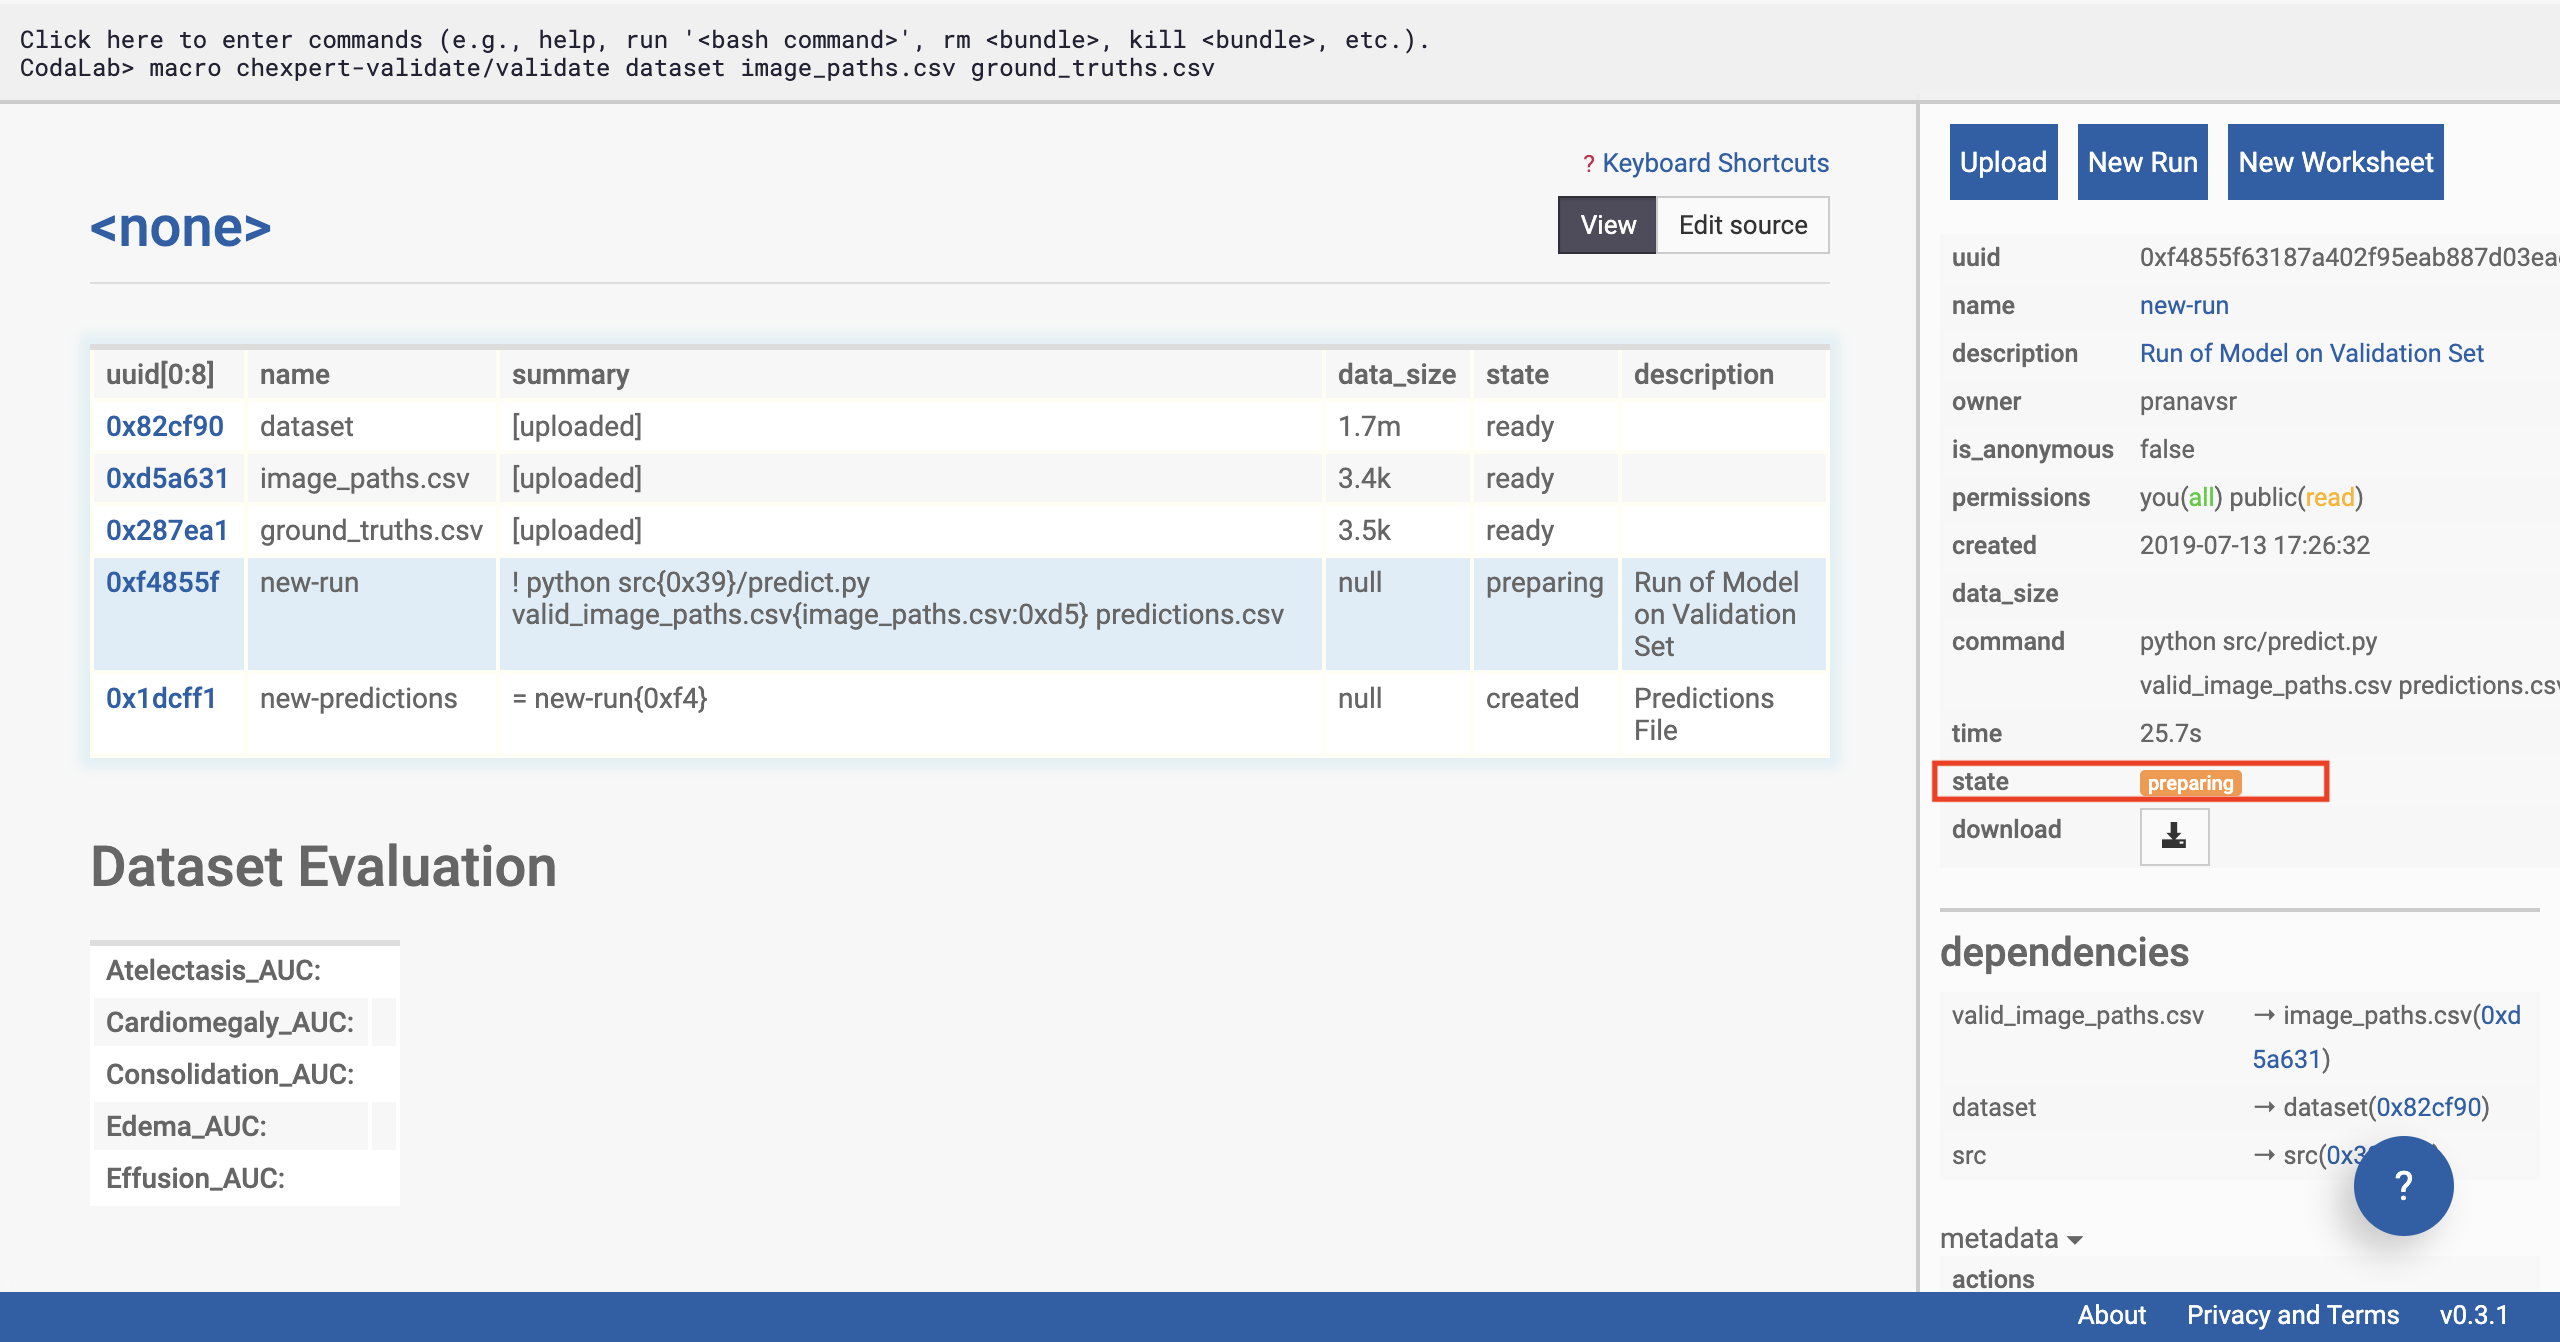
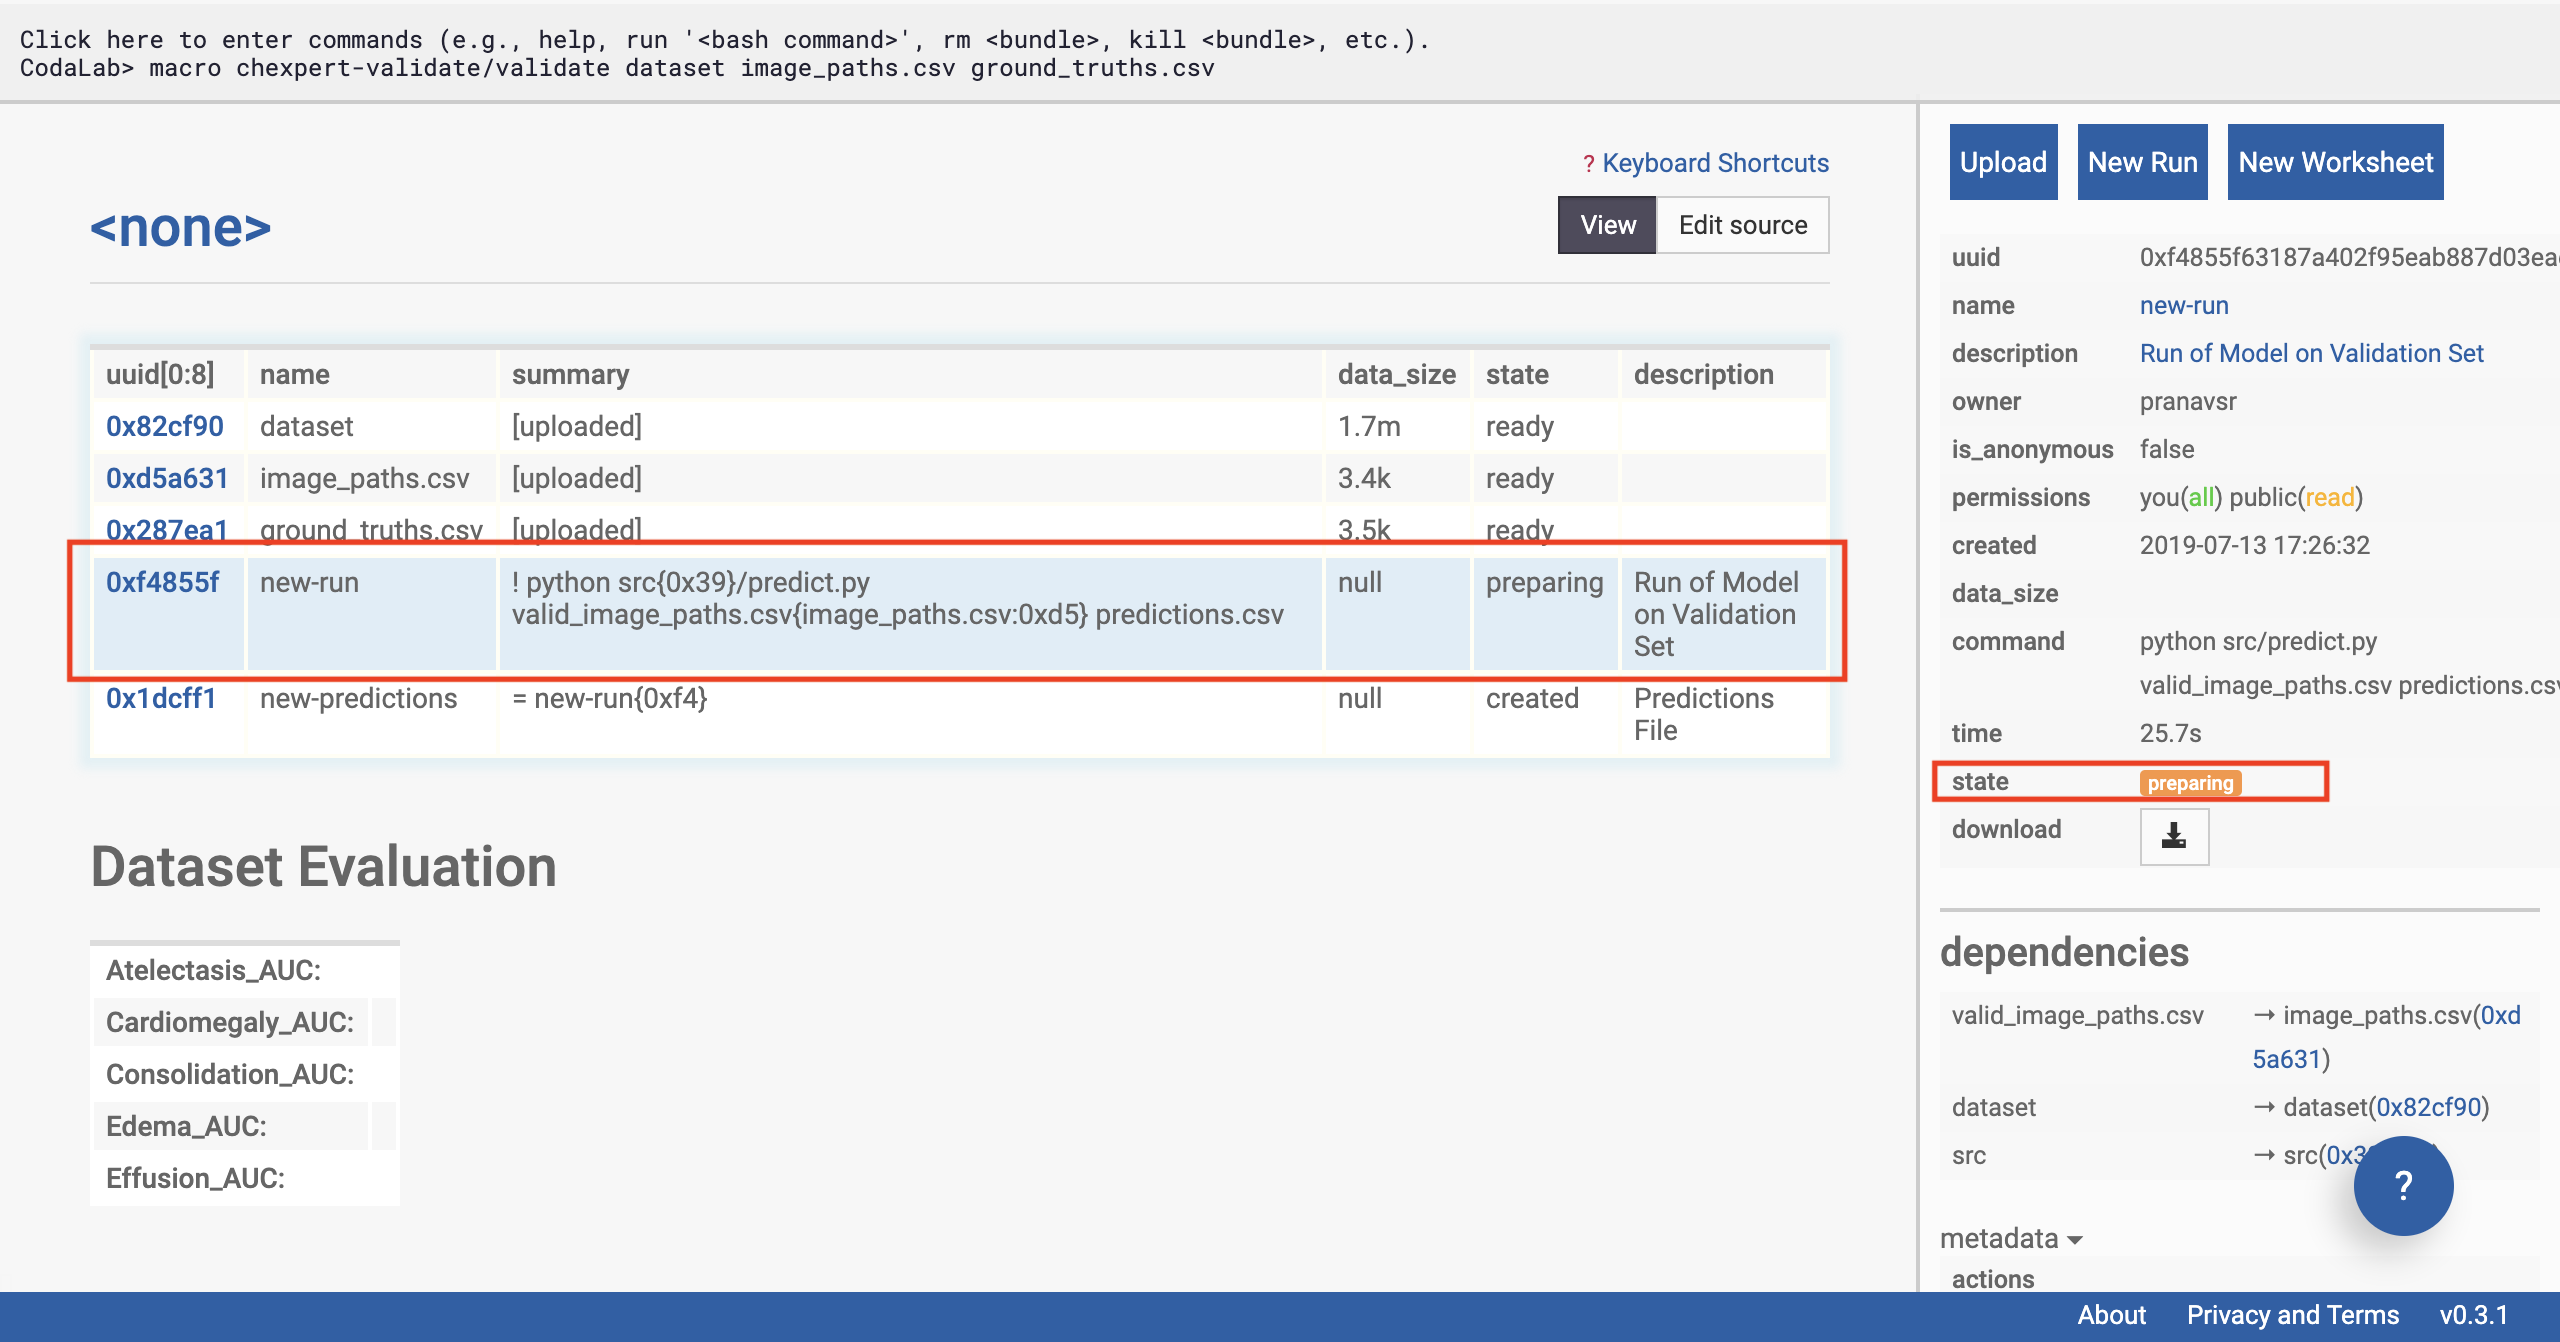
Make fixes after first feedback

Changed region(s): [[0.0312, 0.4888, 0.7188, 0.5194], [0.0312, 0.3972, 0.7188, 0.4277]]

diff --git a/source/_posts/chexpert-validate.md b/source/_posts/chexpert-validate.md
@@ -25,10 +25,12 @@ We set ourselves the **challenge of making it as easy as possible for everyone t
 ## Walkthrough of Validating CheXpert model on your own data
 *For this walkthrough, you don't need any coding experience. You also don't need any data: we'll provide you data example we use for this walkthrough. We had three friends go through this walkthrough; it took them 1.5 hours on average.*
 
-### How to Set Up Your Data: Formatting and Organization
-*If you're coming in with your own data, this section will help you transform it to the right format. If you don’t have a dataset right now, [download the data we've generated](https://drive.google.com/drive/folders/1WVKMv9NWwxg69XZcTtjJgdl9IdKkEJ8T?usp=sharing), and you can skip along to the [next section](#Running-the-CheXpert-model-on-your-data).*
+**If you don’t have a dataset right now, [download the data we've generated](https://drive.google.com/drive/folders/1WVKMv9NWwxg69XZcTtjJgdl9IdKkEJ8T?usp=sharing), and skip to the [next section](#Running-the-CheXpert-model-on-your-data).**
 
-In this section, we're going to get our data into a format that the algorithm expects. There will be three things we'll need: a folder containing x-ray images, a file containing a list of images to be passed into the algorithm, and a file containing information about the ground truth for each of the studies.
+### How to Set Up Your Data: Formatting and Organization
+*If you're coming in with your own data, this section will help you transform it to the right format.*
+
+In this section, we're going to get your data into a format that the algorithm expects. There will be three things we'll need: a folder containing x-ray images, a file containing a list of images to be passed into the algorithm, and a file containing information about the ground truth for each of the studies.
 
 For the purposes of this walkthrough, we've compiled a dataset of google images of chest x-rays. We constructed this dataset of 96 images by googling for 5 pathologies (Cardiomegaly, Edema, Consolidation, Atelectasis, and Pleural Effusion) on Google Image search and also the Normal category. The first 16 image results judged to not have any annotations on them were chosen to be included. There was no verification of the ground truth performed; this is just a fun dataset that we can share for this tutorial.
 
@@ -36,6 +38,7 @@ For the purposes of this walkthrough, we've compiled a dataset of google images 
 
 #### Image Directory
 The first thing we'll need is a folder containing all the images in the dataset. We'll be organizing these images in a very specific format: we recommend that you follow the details closely.
+*If you're using the example [dataset provided](https://drive.google.com/drive/folders/1WVKMv9NWwxg69XZcTtjJgdl9IdKkEJ8T?usp=sharing), all the data will already be in the right format, and you can skip to the [next section](#Running-the-CheXpert-model-on-your-data).*
 
 {% asset_img dataset_folder.png Example image directory %}
 
@@ -52,7 +55,7 @@ Finally, this 'dataset' folder should be zipped into a file called 'dataset.zip'
 #### Image Path List
 The second thing we'll need is a file containing the paths of all images we're running through the algorithm. This file will be in a CSV (spreadsheet) format, which can be generated by Microsoft Excel's 'save as' function.
 
-{% asset_img image_paths.png Example image paths file %}
+{% asset_img image_paths.png image_paths.csv file %}
 
 The CSV file should have the following structure:
 1. The file should contain only one column, with the top row as ‘Path’, and a list of image paths in subsequent rows.
@@ -65,7 +68,7 @@ This CSV should be saved with the name 'image_paths.csv'.
 #### Ground Truth
 The third and final thing we'll need is a file specifying the ground truth for each study. This file will also be in a CSV (spreadsheet) format.
 
-{% asset_img ground_truths.png Example ground truths file %}
+{% asset_img ground_truths.png ground_truths.csv file %}
 
 This CSV file should have the following structure:
 1. Have 6 columns in total, with the first row containing ‘Study’, followed by the 5 pathologies the algorithm produces outputs for: Cardiomegaly, Edema, Consolidation, Atelectasis, and Pleural Effusion. *Our algorithm does not currently support more than these pathologies.*
@@ -85,7 +88,7 @@ This CSV file should be saved with the name 'ground_truths.csv'.
 <br>
 
 ### Running the CheXpert model on your data
-We will now run through how you can run the CheXpert model we've pre-trained on Stanford data on the dataset you've prepared. *If you're using our example data, now's a good time to [download it if you haven't already](https://drive.google.com/drive/folders/1WVKMv9NWwxg69XZcTtjJgdl9IdKkEJ8T?usp=sharing).* At the end of this section, you'll be able to see the Area Under the Curve Metric (AUC) of the model for the 5 tasks on your data.
+We will now run through how you can run the CheXpert model we've pre-trained on Stanford data on the dataset you've prepared. *If you're using our example data, now's a good time to [download it if you haven't already](https://drive.google.com/drive/folders/1WVKMv9NWwxg69XZcTtjJgdl9IdKkEJ8T?usp=sharing).* At the end of this section, you'll be able to see the Area Under the Curve (AUC) metric of the model for the 5 tasks on your data (or the example data).
 
 <br>
 {% asset_img final.png The final output we'll work towards %}
@@ -99,6 +102,7 @@ First, we'll create an account on Codalab:
 2. Fill out the subsequent form.
 3. A verification email will be sent to the email address you used to sign up. When you open it, there will be a link to follow in order to verify your account.
 4. After verifying your account, sign in again.
+5. Click on the My Dashboard Link at the top. 
 
 <br>
 
@@ -121,7 +125,7 @@ Click on the 'Upload' button in the sidebar:
 {% asset_img upload.png Upload %}
 <br>
 
-Upload dataset.zip first. In a few seconds, you should see a line appended to the worksheet (refresh the page if you don't). Then upload image_paths.csv, and then ground_truths.csv, one by one. All the data should be uploaded at that point.
+Upload dataset.zip first. In a few seconds, you should see a table with a row added on the left side of the page (refresh the page if you don't). Then upload image_paths.csv, and then ground_truths.csv, one by one.
 <br>
 {% asset_img upload2.png All Files Are Uploaded %}
 <br>
@@ -129,7 +133,7 @@ Upload dataset.zip first. In a few seconds, you should see a line appended to th
 #### Running the CheXPert Model on the Uploaded Data
 Now that the data is in place, we're going to run the CheXPert model on it.
 
-We're going to first click on the 'Click here to enter commands' pane at the top of the webpage.
+We're going to first click on the gray pane at the top of the webpage (might contain 'Codalab>').
 <br>
 {% asset_img command_line.png Click the Command Pane %}
 <br>
@@ -146,28 +150,27 @@ macro chexpert-validate/validate dataset image_paths.csv ground_truths.csv
 In a second or two, you should see some output from the interface (after you've pressed enter).
 Then click outside the pane (shown in figure below).
 
-Congratulations, you've already kicked off the run of the model on your data in just one line. 
+Congratulations, you've already kicked off the run of the model on the data in just one line. 
 
-*There's a lot of magic behind the scenes that Codalab performs to make this possible in just one line. Behind the scenes, the CheXpert model is being downloaded onto a remote machine with a GPU instance, on which a Docker container will be set up. This Docker container loads all the required dependencies required to run the exact environment that the model needs to run.*
+*There's a lot of magic behind the scenes that Codalab performs to make this possible in just one line. Behind the scenes, the CheXpert model is being downloaded onto a remote machine with a GPU instance, on which a Docker container will be set up soon. This Docker container loads all the required dependencies to run the exact environment that the model needs.*
 
 <br>
 {% asset_img command2.png See the outputs and click outside %}
 <br>
 
-You should be able to see a few files appended to your worksheet. 'New run' is the live running of the model on your dataset. 'New predictions' is the file that will be populated with the predictions of the model on each of the studies in the dataset when the model running is complete.
+You should be able to see a few rows added to the table on the left of the page. 
 
 <br>
 {% asset_img check1.png Verify that a few files are appended to your worksheet%}
 <br>
 
-Click on the 'New run' row of the table. The sidebar should change, and now display information about the status of the model's run on the data. We're going to give special attention to the 'state' of the run, which will start off with 'preparing', while the model is being downloaded on to a remote machine. This can take a few minutes (10 minutes for us), so come back to this after a bit.
-
+Click on the 'new-run' row of the table. The sidebar should change, and now display information about the status of the model's run on the data. We're going to give special attention to the 'state' of the run, which will start off with 'preparing' then move to 'running' and then 'ready'. The 'preparing' state can take a few minutes, as the remote machine downloads the CheXpert models.
 
 <br>
 {% asset_img check2.png Check the status %}
 <br>
 
-Soon, the status of the run should update to 'running'. Now the model has been loaded on to a machine, and predictions are being made on your dataset. This takes 10 minutes for us using the example dataset, and will take longer on a larger dataset. *Note that the Chexpert model is not one model, but a collection of 30 specialist models, which must each be sequentially run on the data.*
+Soon, the status of the run should update to 'running'. Now the model has been loaded on to a machine, and predictions are being made on the uploaded dataset. This takes 10 minutes for us using the example dataset, and will take longer on a larger dataset. *Note that the Chexpert model is not one model, but a collection of 30 specialist models, which must each be sequentially run on the data.*
 
 <br>
 {% asset_img check3.png Check the status again %}
@@ -177,13 +180,13 @@ Once the model has finished running, the status of the run will update to 'ready
 
 *If you see an error, please go back to the previous steps, and make sure that you haven't missed any instructions.*
 
-*If you’re an advanced user looking for confidence intervals on the AUC or further statistical analysis, advanced users can download the prediction file by clicking on the 'new_predictions' row, and then clicking download on the sidebar.*
+*Optional: if you’re an advanced user looking for confidence intervals on the AUC or further statistical analysis, advanced users can download the prediction file by clicking on the 'new_predictions' row, and then clicking download on the sidebar.*
 
 <br>
 {% asset_img ready.png Running is completed %}
 <br>
 
-And that’s it! In just over an hour, we’ve been able to run the CheXpert model on your own data!
+And that’s it! In just over an hour, we’ve been able to run the CheXpert model on your own data (or the example data)!
 
 <br>
 
